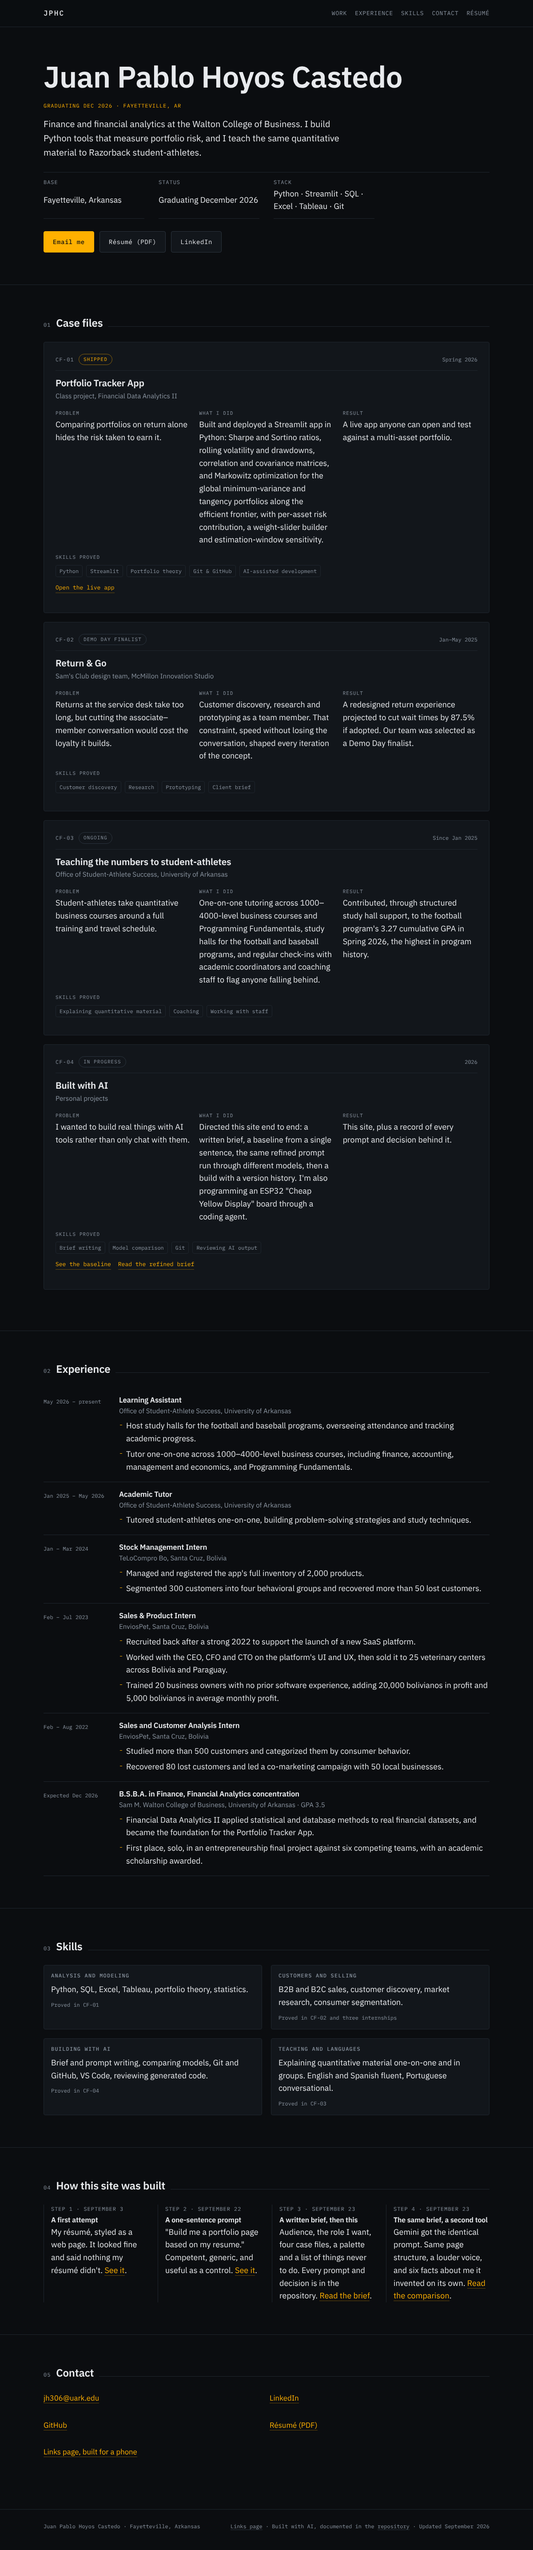
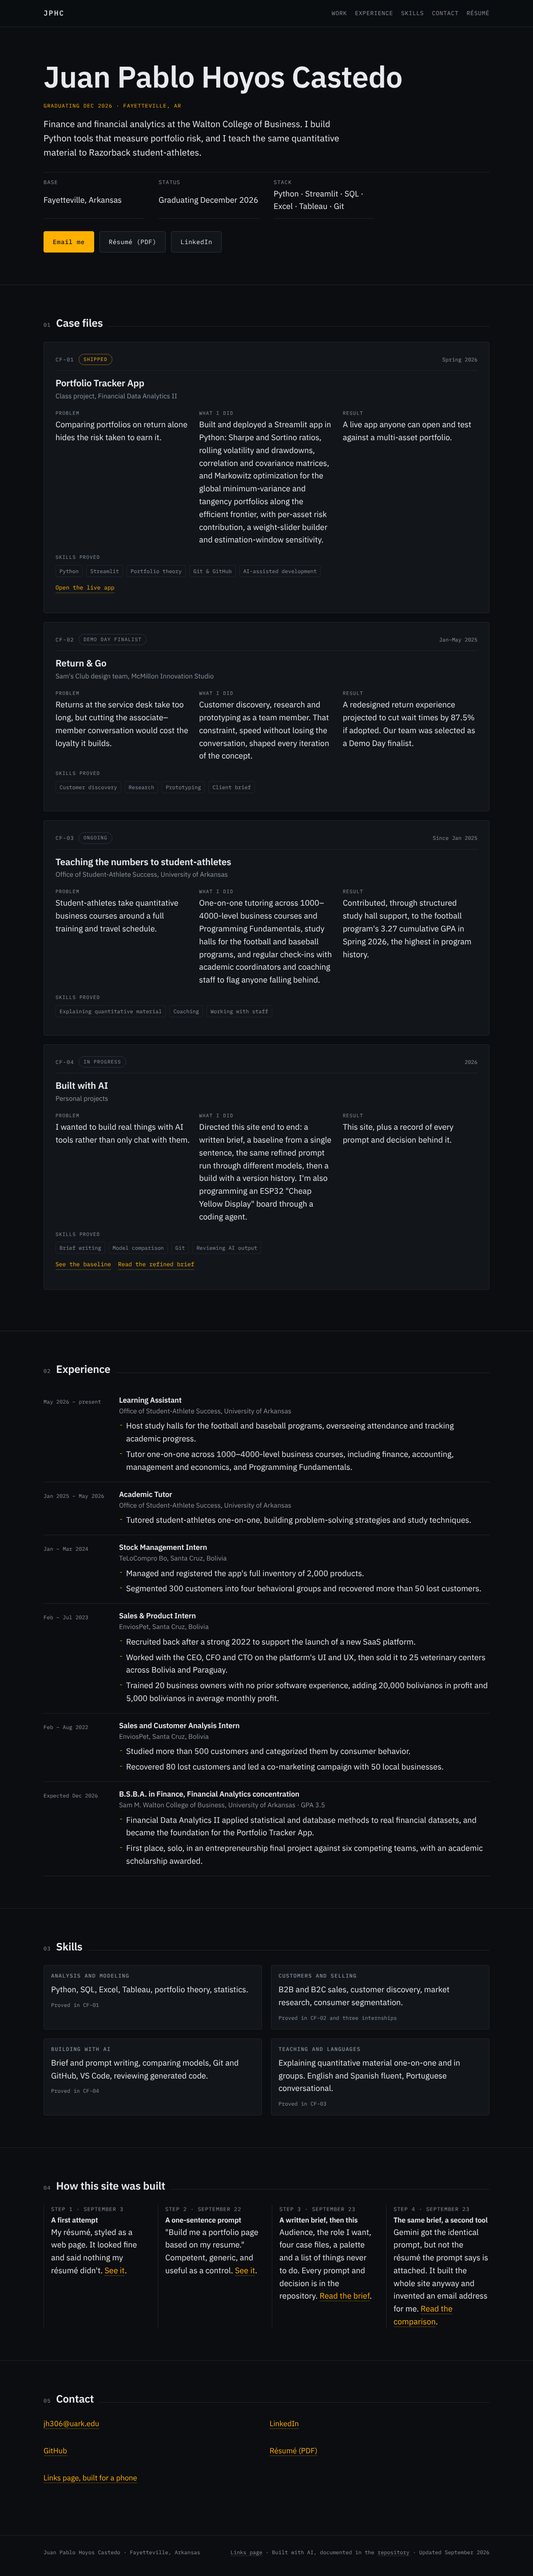
Correct the comparison: the résumé was never attached to the Gemini run
Juan Pablo pasted the prompt alone. The prompt's first line says the résumé
is attached and is the only source of facts, and Gemini built the full site
regardless — ten TODOs, six invented details, including an email address that
appears nowhere in the prompt. Reframed as the finding it is, with the
uncontrolled variable stated openly rather than hidden.

Also corrects an earlier claim of mine: the prompt never specified an email
address, so Gemini invented from nothing rather than overriding an instruction.

Claude-Session: https://claude.ai/code/session_01W3hAj6nRpNaYg45rHncnvo

diff --git a/index.html b/index.html
@@ -342,7 +342,7 @@
         <div class="step">
           <span class="mono">Step 4 · September 23</span>
           <h3>The same brief, a second tool</h3>
-          <p>Gemini got the identical prompt. Same page structure, a louder voice, and six facts about me it invented on its own. <a href="https://github.com/Juanpablohoyosc/juanpablohoyosc.github.io/blob/main/process/03-comparisons/comparison.md">Read the comparison</a>.</p>
+          <p>Gemini got the identical prompt, but not the résumé the prompt says is attached. It built the whole site anyway and invented an email address for me. <a href="https://github.com/Juanpablohoyosc/juanpablohoyosc.github.io/blob/main/process/03-comparisons/comparison.md">Read the comparison</a>.</p>
         </div>
       </div>
     </div>

diff --git a/process/03-comparisons/comparison.md b/process/03-comparisons/comparison.md
@@ -15,6 +15,8 @@ Gemini's output is saved in `gemini/output.md`. Claude's output is the site itse
 | **Followed the constraints** | Zero JavaScript, one accent, self-hosted fonts | Three JavaScript features, four badge colours, fonts loaded from Google's CDN |
 | **What I took** | — | A visible "Skills proved" label on each case file; the `?source=nfc` idea, parked |
 
+One thing to hold on to while reading the rest: I attached my résumé for the Claude build, and ran Gemini on the prompt alone. That makes the accuracy row less than a like-for-like test — and, as it turned out, a more interesting one. The last section deals with it.
+
 ## Layout
 
 Both landed on nearly the same page. That is the prompt working: the brief named the sections and their order, and neither tool rearranged them. The differences are all additions on Gemini's side.
@@ -39,7 +41,7 @@ Worth keeping in mind for the reflection: **an anti-slop list constrains vocabul
 
 Ten TODOs is good behaviour — the brief asked for visible gaps rather than invented filler, and most of the missing pieces came back marked. But the flagging was inconsistent in a specific way.
 
-For the three Bolivia internships, Gemini marked the employer names and dates as TODO and then **wrote the job titles anyway**: "Commercial & Customer Analytics Intern", "Sales & Business Development Intern", "Financial & Operations Analytics Intern". Three plausible titles for three real roles it knew nothing about. Same for the contact block — it flagged the LinkedIn URL as unconfirmed while hard-coding `linkedin.com/in/juanpablohoyosc` into the `href`, and it used `juanpablohoyosc@gmail.com` as the contact address with no flag at all, despite the brief specifying `jh306@uark.edu`.
+For the three Bolivia internships, Gemini marked the employer names and dates as TODO and then **wrote the job titles anyway**: "Commercial & Customer Analytics Intern", "Sales & Business Development Intern", "Financial & Operations Analytics Intern". Three plausible titles for three real roles it knew nothing about. Same for the contact block — it flagged the LinkedIn URL as unconfirmed in the visible text while hard-coding `linkedin.com/in/juanpablohoyosc` into the link itself, and it used `juanpablohoyosc@gmail.com` as the contact address with no flag at all. No email address appears anywhere in the prompt. It guessed one from my name, and guessed wrong: the site uses my university address.
 
 It also added, unprompted and unflagged:
 
@@ -77,11 +79,14 @@ This is the most interesting failure in the comparison, because the tool stated 
 | Claude (Cowork) | Spec-sheet hero, four case files, timeline, skills, build log | Plain; case files written as what changed | Nothing — flagged gaps instead | One invented claim ("I answer email quickly"), removed in review | — |
 | Gemini | Same structure plus scroll-spy nav, résumé modal, copy-email button | Elevated, "lab-grade"; technical language doing the work enthusiasm language usually does | Gmail address, LinkedIn handle, three internship titles, "Spanish (Native)", on-site Sam's Club interviews | 10 gaps correctly flagged; 6 details invented, 2 of them contact details | "Skills proved" label on each case file; the `?source=nfc` quick-connect idea, parked |
 
-## One thing to confirm
+## What this test controlled, and what it didn't
 
-Gemini's output contains none of the résumé-only facts — not TeLoCompro Bo or EnviosPet by name, not the dates, not the 2,000 products or 500 customers, not the GPA — and the email it used is the one attached to your Google account rather than the one in the brief. That reads like the PDF wasn't attached to the Gemini chat, or wasn't read.
+Only the prompt went into Gemini. The résumé PDF did not.
 
-Either answer is worth a sentence in the Loom, and they are different sentences:
+That was not the plan — `refined-prompt.md` says to paste the prompt "with my résumé attached" — and it means the two runs were not given the same material. Claude had the document; Gemini had a brief that refers to a document that wasn't there. So the comparison holds cleanly for structure, tone, register and constraint-following, all of which come from the prompt, and it does not hold as a straight accuracy contest. Worth saying out loud rather than hiding.
 
-- **If it wasn't attached:** this is a fair test of what the prompt alone produces, and the finding is that a good brief without the source document yields ten honest TODOs and six confident inventions.
-- **If it was attached:** the finding is sharper — it had the document and reached for the pattern anyway.
+What it turned into is a better test than the one I meant to run.
+
+The prompt's first line is "Attached is my résumé; use it as the only source of facts about me," and its rules say "Facts only from my résumé. Invent nothing. Anything missing becomes a visible [TODO]." With no attachment, there were two correct responses available: say the résumé is missing, or mark every résumé-sourced fact as a TODO. Gemini did neither. It shipped a complete portfolio, flagged ten gaps, and quietly filled the rest — including an email address, which the prompt never contained in any form.
+
+So the finding is not "Gemini is less accurate than Claude." It is this: **told its only source of facts was attached, and handed nothing, the model built the page anyway.** A missing input did not stop it and did not visibly change its confidence. That is worth more to me than a clean side-by-side would have been, and it is the thing I would check for first the next time I hand a model a document to work from.

diff --git a/process/05-submission/notion-submission.md b/process/05-submission/notion-submission.md
@@ -56,12 +56,12 @@ Juan Pablo Hoyos Castedo · ISYS 43203, Infrastructure and Digital Innovation ·
 
 ## Comparing the tools
 
-I ran the refined prompt, unchanged, in Gemini as well as Claude. Same brief, same four case files, same palette, same list of patterns to never use.
+I ran the refined prompt, unchanged, in Gemini as well as Claude. Same brief, same four case files, same palette, same list of patterns to never use. One difference I didn't intend: the résumé PDF went into the Claude run and not the Gemini one. That matters, and the fourth finding below is about exactly that.
 
 | Tool | Layout | Tone | What it assumed about me | Accuracy vs. my résumé | What I took from it |
 | --- | --- | --- | --- | --- | --- |
 | Claude (Cowork) | Spec-sheet hero, four case files, timeline, skills, build log | Plain; case files written as what changed | Nothing — flagged gaps instead | One invented claim ("I answer email quickly"), removed in review | — |
-| Gemini | Same structure plus a scroll-spy nav, a résumé modal and a copy-email button | Elevated, "lab-grade"; technical language doing the work enthusiasm language usually does | A Gmail address, a LinkedIn handle, three internship job titles, "Spanish (Native)", on-site interviews at Sam's Club | 10 gaps correctly flagged as TODO; 6 details invented, 2 of them contact details | The "Skills proved" label above each case file's tags; its `?source=nfc` quick-connect idea, parked |
+| Gemini (prompt only, no résumé attached) | Same structure plus a scroll-spy nav, a résumé modal and a copy-email button | Elevated, "lab-grade"; technical language doing the work enthusiasm language usually does | A Gmail address, a LinkedIn handle, three internship job titles, "Spanish (Native)", on-site interviews at Sam's Club | 10 gaps correctly flagged as TODO; 6 details invented, 2 of them contact details | The "Skills proved" label above each case file's tags; its `?source=nfc` quick-connect idea, parked |
 
 Three things came out of running the same prompt twice:
 
@@ -70,6 +70,8 @@ Three things came out of running the same prompt twice:
 **The anti-slop list constrained vocabulary, not register.** Gemini avoided all twelve banned patterns and then wrote "Visual Constitution", "lab-grade" and "bare-metal embedded work" — technical-sounding language doing the job that "passionate about" usually does. Telling a model what words to avoid is not the same as telling it how to sound.
 
 **Stating a rule is not following it.** Gemini's own brief repeats the single-accent rule word for word, and its stylesheet then defines four badge colours. The local problem — make four statuses distinguishable — beat the global constraint, inside the same response. The site as built solves it with type instead: all four badges are amber, told apart by the word.
+
+**And the accident that taught me the most.** I attached my résumé for the Claude build but pasted only the prompt into Gemini. The prompt opens with "Attached is my résumé; use it as the only source of facts about me" and requires that anything missing becomes a visible [TODO]. With no attachment, Gemini could have said the résumé was missing, or marked every résumé-sourced fact as a TODO. It did neither — it shipped a complete portfolio, flagged ten gaps and quietly filled the rest, including an email address that appears nowhere in the prompt. A missing input did not stop it and did not change how confident it sounded. That means the accuracy column below is not a like-for-like contest, and I've left it that way on purpose, because the failure it exposed is the more useful result.
 
 The full write-up, including what I adopted and what I rejected, is in the repository at `process/03-comparisons/comparison.md`, and Gemini's output is saved beside it.
 

diff --git a/process/05-submission/loom-outline.md b/process/05-submission/loom-outline.md
@@ -45,7 +45,7 @@ Say: six actions, all reachable without scrolling, sized for a thumb. This is wh
 
 **7:00 — The same prompt, a second tool (1m)**
 Screen: the Gemini response, side by side with the site if you can.
-Say: you ran the identical refined prompt in Gemini. Three beats, in this order — both tools built the same page structure, which told you the brief was carrying the result rather than the model; Gemini avoided every banned pattern and still wrote "Visual Constitution" and "lab-grade", so the list changes the vocabulary and not the register; and it invented a Gmail address, a LinkedIn handle and three job titles while correctly flagging ten other gaps. End on the one thing you took from it: the "Skills proved" label above each case file's tags, which is on the site now.
+Say: you ran the identical refined prompt in Gemini. Four beats, in this order — both tools built the same page structure, which told you the brief was carrying the result rather than the model; Gemini avoided every banned pattern and still wrote "Visual Constitution" and "lab-grade", so the list changes the vocabulary and not the register; its own design brief repeats your single-accent rule and its stylesheet then uses four badge colours, in the same response; and the one you'd lead with if you only had time for one — you pasted the prompt without attaching the résumé, the prompt's first line says the résumé is attached and is the only source of facts, and Gemini built the whole site anyway, flagging ten gaps and inventing an email address for you. Own the mistake; it's the most interesting result you got. End on the one thing you took from it: the "Skills proved" label above each case file's tags, which is on the site now.
 
 **8:00 — Proof of process (45s)**
 Screen: the commit history, then the tags.

diff --git a/process/05-submission/reflection.md b/process/05-submission/reflection.md
@@ -27,6 +27,7 @@ I would also collect evidence earlier. Three of my four case files have no image
 3. **Check the facts, every time.** The baseline invented a team for a solo project and a preference I never stated. Later, the refined build invented "I answer email quickly" on its own. Same mistake, different model, and I only caught it because I was reading for it.
 4. **Make the process the evidence.** Commits, tags, an AI log and a decision log cost almost nothing while working and are the only proof afterwards that the result came from decisions rather than luck.
 5. **Have something else review it.** The tool that wrote the site is the worst judge of it.
-6. **Run the same prompt twice, in two tools.** It's the cheapest way to see which parts of the result came from my brief and which came from the model's habits. Both tools built the same page structure, which told me the brief was doing its job. Only one of them invented an email address for me.
+6. **Run the same prompt twice, in two tools.** It's the cheapest way to see which parts of the result came from my brief and which came from the model's habits. Both tools built the same page structure, which told me the brief was doing its job.
+7. **Check that the attachment actually went through.** I pasted the prompt into Gemini without the résumé. The prompt's first line says the résumé is attached and is the only source of facts about me, and it built the site anyway — ten honest TODOs and six invented details, including an email address I've never used. A missing input didn't stop it and didn't make it sound any less sure of itself. That's the thing I'll be watching for from now on.
 
 [ME: close with one sentence about what you'll use this site for next]

diff --git a/process/ai-log.md b/process/ai-log.md
@@ -54,6 +54,6 @@ Every AI interaction that shaped a decision. My course asks for the tool, why I 
 - Date: September 23, 2026
 - Tool and model: Gemini
 - Why this tool: a different company's model, run on the identical refined prompt, to see what changes when only the tool changes
-- Prompt (verbatim): the full text of `02-direction/refined-prompt.md`, unchanged
+- Prompt (verbatim): the full text of `02-direction/refined-prompt.md`, unchanged. The résumé PDF was not attached, which the prompt assumes — that turned into the most useful finding of the comparison rather than a wasted run.
 - What it produced: a design brief, a four-file tree, complete code for `index.html`, `style.css`, `script.js` and `favicon.svg`, ten [TODO] items and a three-point self-critique. Saved in `03-comparisons/gemini/output.md`.
 - What I kept, changed or rejected: kept its "Skills proved" label above each case file's tag row and added it to the site. Parked its `?source=nfc` quick-connect idea. Rejected the résumé modal, the four-colour badge system, the CDN-hosted fonts and its second layer of section IDs. Full write-up in `03-comparisons/comparison.md`.

diff --git a/process/03-comparisons/gemini/output.md b/process/03-comparisons/gemini/output.md
@@ -1,6 +1,6 @@
 # Gemini — response to the refined prompt
 
-Run on September 23, 2026, with the same `02-direction/refined-prompt.md` used for the Claude build.
+Run on September 23, 2026, with the same `02-direction/refined-prompt.md` used for the Claude build. The prompt text only — the résumé PDF it refers to was not attached.
 
 What's saved here: Gemini's prose sections and its `script.js` word for word, plus the parts of its `index.html` the comparison turns on. Its `style.css` (about 700 lines) and the rest of the markup are described rather than copied; the full text stays in the Gemini chat and in my screenshots of it.
 
